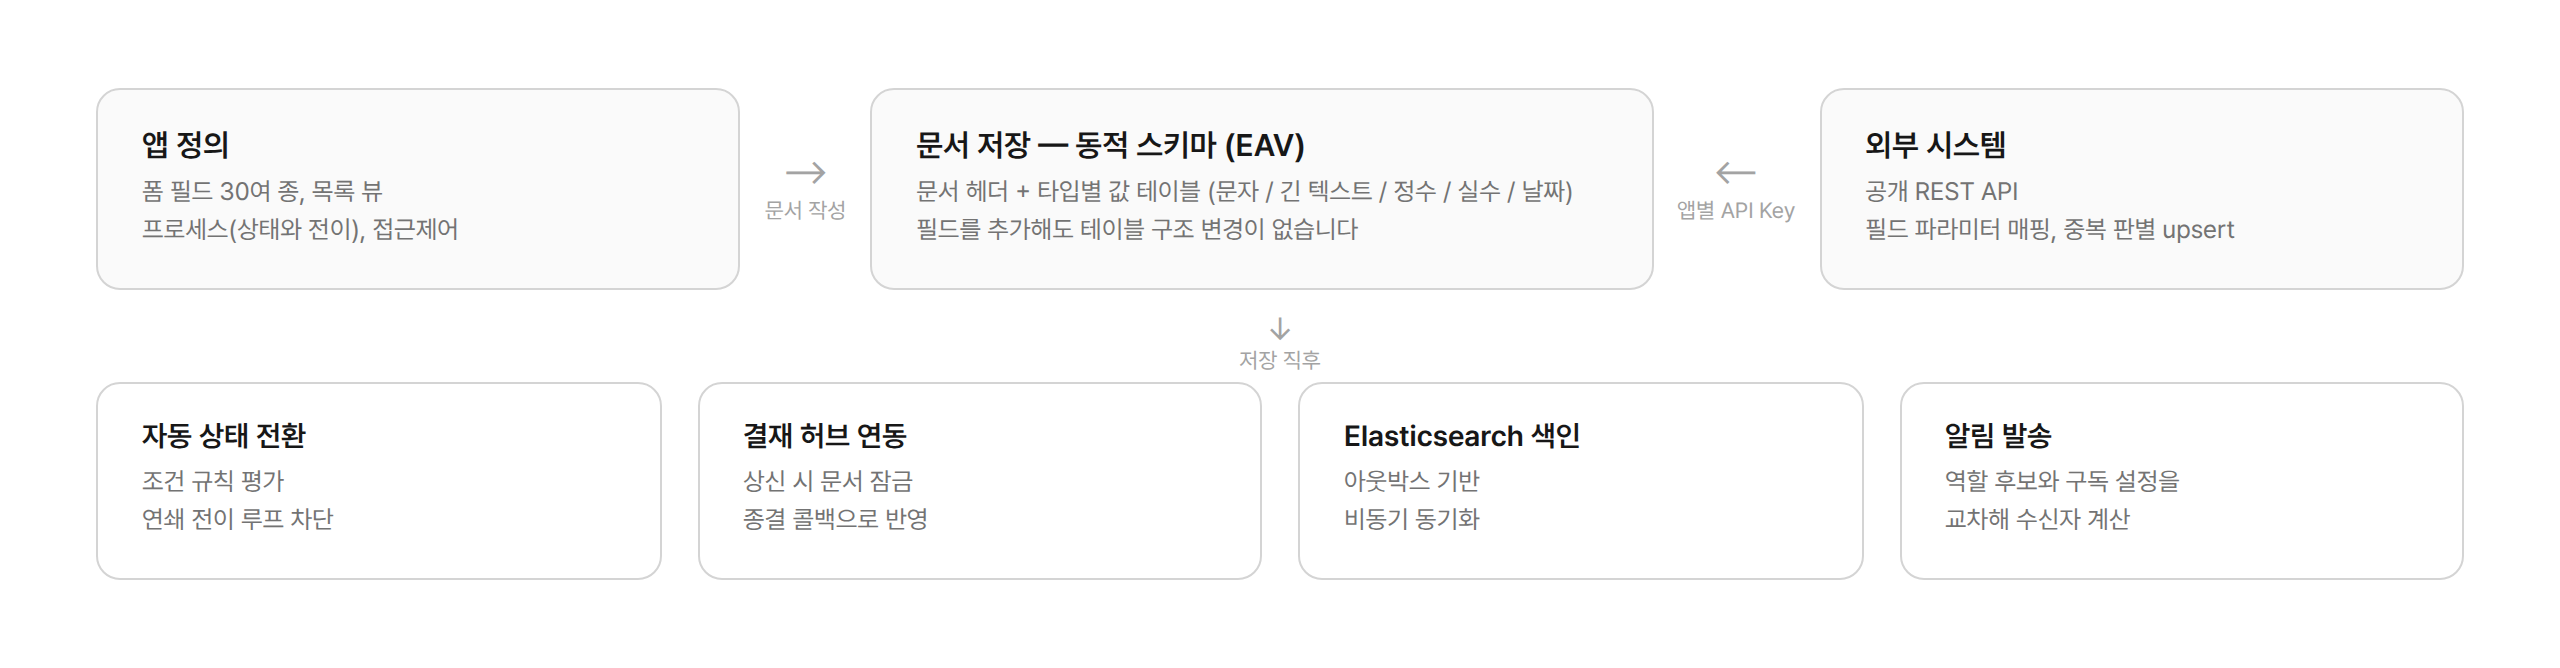
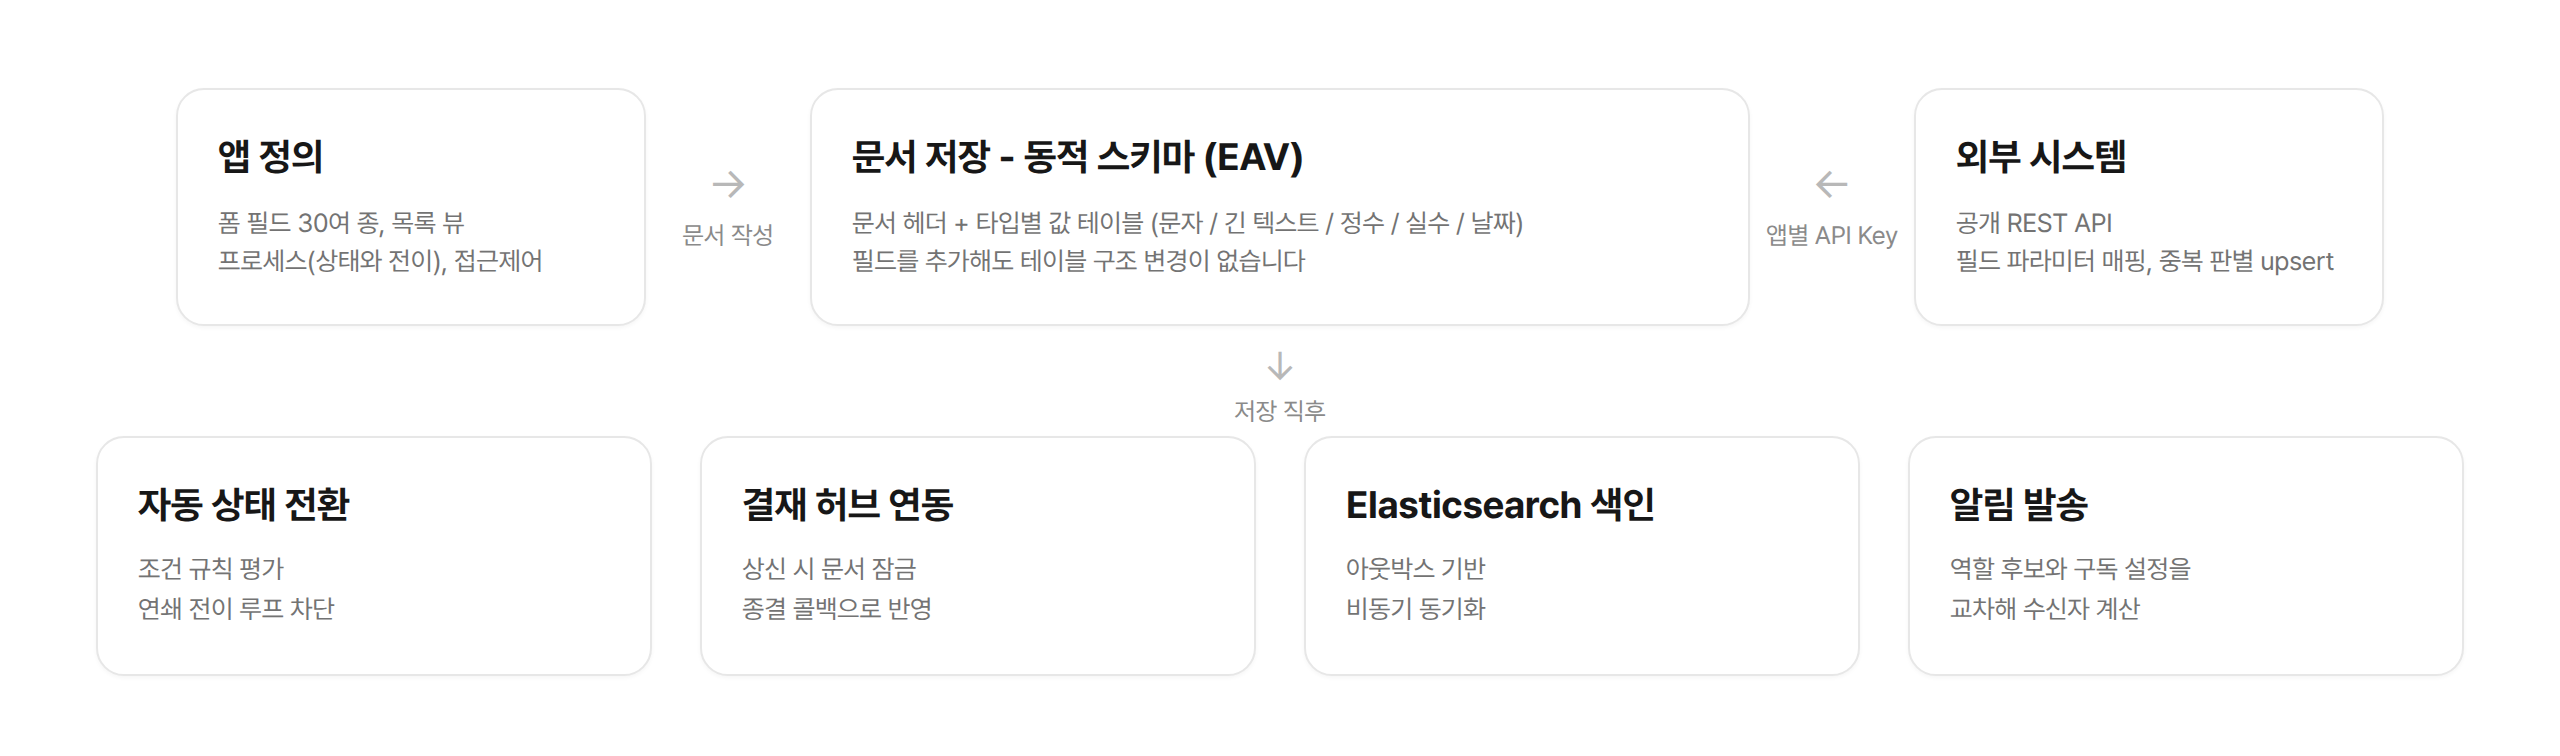
content: AI 플랫폼 다이어그램·발표 자료 추가, 특허·업무앱 화면 갱신
- ai-platform: 실제 LangGraph 에이전트 그래프, 사내 지식(RAG) 검색과
  문서 처리 파이프라인 흐름도 추가, ZEUS AI DAY 발표 슬라이드 수록,
  중복 워크플로우 이미지 정리와 서술 다듬기
- patent-management: 특허/직무발명 상세 화면 스크린샷 보강
- work-app-platform: 아키텍처 다이어그램 등 재캡처

diff --git a/src/content/builds.ts b/src/content/builds.ts
@@ -15,7 +15,7 @@ export const builds: Build[] = [
       { type: 'paragraph', text: '그룹웨어를 전환하면서 경비 처리 업무를 옮겨올 사내 시스템이 필요했습니다. 기존에는 RPA가 ERP 전표 입력을 대신하고 있었는데, 실행 환경을 많이 타는 데다 오류도 잦았습니다. 그래서 법인카드 사용내역 확인부터 계정 매핑, 전자결재 상신, ERP 회계전표 생성까지를 하나의 흐름으로 묶은 경비지출관리 시스템을 구축했습니다.' },
       { type: 'paragraph', text: '목표는 사용자가 카드 내역을 골라 용도만 입력하면 회계 전표는 시스템이 만들도록 하는 것이었습니다. 그러려면 사람이 하던 계정 분류와 ERP 전표 입력을 시스템이 대신할 수 있어야 했고, 이 두 가지가 프로젝트의 중심 과제가 됐습니다.' },
       { type: 'heading', text: '법인카드 경비 처리' },
-      { type: 'paragraph', text: 'ERP에 매일 적재되는 카드 사용내역을 실시간으로 연동해, 내 카드의 거래를 건별 처리 상태와 함께 확인하는 화면을 만들었습니다. 카드와 사원이 N:N으로 매핑되는 권한 구조를 그대로 반영했고, 암호화되어 있던 카드번호는 ERP 내장 함수를 찾아 복호화해 표시했습니다.' },
+      { type: 'paragraph', text: 'ERP에 매일 적재되는 카드 사용내역을 실시간으로 연동해, 내 카드의 거래를 건별 처리 상태와 함께 확인하는 화면을 만들었습니다. 카드와 사원이 N:N으로 매핑되는 권한 구조를 그대로 반영했습니다.' },
       { type: 'paragraph', text: '입력은 최대한 줄이는 방향으로 설계했습니다. 회계 계정과목을 직접 고르게 하면 비전공자에게는 어려운 선택이 되기 때문에, 경비 처리에 실제로 쓰이는 계정만 화이트리스트로 추리고 세목 선택지는 ERP 계정 정의에서 동적으로 파생되도록 했습니다. 연구 부서의 지출이 경상개발비 계정으로 치환되는 사내 회계 규칙, 전표 귀속 부서를 현재가 아닌 회계일 당시의 발령 이력으로 잡는 규칙 같은 도메인 지식도 로직에 담았습니다.' },
       { type: 'image', src: '/projects/expense-management/159.png', alt: '법인카드 처리 모달 - 계정과목과 부가세, 적요 입력', caption: '법인카드 처리 - 거래를 골라 계정과목과 부가세, 적요를 입력하고 결재상신으로 이어집니다' },
       { type: 'image', src: '/projects/expense-management/135.png', alt: '개인경비 등록 화면 - 계정과목 선택 후 전체 입력폼', caption: '개인경비 등록 - 계정과목을 고르면 세목과 거래처, 금액 입력란이 이어집니다' },
@@ -27,7 +27,7 @@ export const builds: Build[] = [
       { type: 'paragraph', text: 'ERP를 단일 진실 소스로 두고 시스템은 캐시처럼 동작하게 했습니다. ERP 쪽에서 전표가 삭제되거나 연결이 어긋나도 다음 저장 시점에 스스로 복구하고, 마감된 달에는 저장이 거부되고, 결재가 진행 중인 전표는 잠깁니다. 만드는 것보다 운영 중에 깨지지 않는 것에 비중을 둔 설계입니다.' },
       { type: 'heading', text: 'AI 영수증 자동입력' },
       { type: 'image', src: '/projects/expense-management/141.png', alt: 'AI 영수증 분석 화면 - 계정과목 후보와 근거, 적요 제안', caption: 'AI 추천 - 영수증을 분석해 계정과목 후보와 근거, 적요까지 제안 (샘플 영수증)' },
-      { type: 'paragraph', text: '영수증을 보고 계정과 용도를 고르는 일은 반복 작업이라 AI에게 맡기기 좋은 문제였습니다. 비전 모델이 영수증을 분석한 결과에, 과거 지출 이력 3.7만 건을 적재해 만든 이력 기반 추천을 우선순위로 병합하는 다단계 추천 구조로 만들었습니다. 부가세 공제 여부처럼 규칙화하기 어려운 항목은 2년치 카드 전표에서 계정별 처리 관행을 집계해 기본값을 정합니다.' },
+      { type: 'paragraph', text: '영수증을 보고 계정과 용도를 고르는 일은 번거로운 작업이라, AI가 대신 채워주면 실제로 잘 쓰이겠다는 생각에서 시작했습니다. 비전 모델이 영수증을 분석한 결과에, 과거 지출 이력 3.7만 건을 적재해 만든 이력 기반 추천을 우선순위로 병합하는 다단계 추천 구조로 만들었습니다. 부가세 공제 여부처럼 규칙화하기 어려운 항목은 2년치 카드 전표에서 계정별 처리 관행을 집계해 기본값을 정합니다.' },
       { type: 'paragraph', text: '입력 보조 기능은 느리면 쓰지 않게 되기 때문에, 영수증 이미지 리사이즈와 프롬프트 캐싱, 추론 옵션 조정으로 응답 지연을 줄였습니다. 영수증의 사업자번호가 ERP 거래처와 정확히 1건 매칭되면 거래처까지 자동으로 채워지고, 호출마다 토큰과 비용, 사용자가 최종 채택한 계정을 로그로 남겨 추천 품질을 추적합니다.' },
       { type: 'heading', text: '모바일' },
       { type: 'image', src: '/projects/expense-management/157.png', alt: '모바일 법인카드 내역 화면', caption: '모바일 법인카드 내역은 카드형 리스트로 보여줍니다.' },
@@ -131,7 +131,7 @@ export const builds: Build[] = [
       { type: 'image', src: '/projects/oneplace/136.png', alt: '홈 대시보드 화면', caption: '홈 대시보드' },
       { type: 'heading', text: '개요' },
       { type: 'paragraph', text: '흩어져 있는 사내 서비스의 입구를 하나로 모으는 통합 포털을 구축했습니다. 임직원이 하루를 시작하는 첫 화면을 목표로, 사용자별로 구성되는 개인 대시보드로 설계했습니다.' },
-      { type: 'paragraph', text: '같은 웹 한 벌로 PC, 모바일 브라우저, 스토어 설치형 앱까지 커버하는 것을 아키텍처 전략으로 잡았습니다.' },
+      { type: 'paragraph', text: '같은 웹 한 벌로 PC와 모바일 브라우저를 함께 커버하는 것을 아키텍처 전략으로 잡았습니다.' },
       { type: 'heading', text: '홈 대시보드' },
       { type: 'paragraph', text: '인사 배너, 즐겨찾기, 최근 사용 메뉴, 알림, 연차 현황, 오늘 근무시간 요약, 날씨까지, 임직원이 자주 확인하는 정보를 한 화면에 모았습니다. 다른 시스템에 들어가야 보이던 것들을 첫 화면으로 끌어온 것입니다.' },
       { type: 'heading', text: '전사 서비스 메뉴' },
@@ -159,7 +159,7 @@ export const builds: Build[] = [
     blocks: [
       { type: 'image', src: '/projects/bi/102.png', alt: '포털 홈 화면', caption: '포털 홈 화면' },
       { type: 'heading', text: '개요' },
-      { type: 'paragraph', text: '상용 BI 솔루션(BI Matrix AUD)에 준하는 풀 BI 플랫폼을 구현하고 있습니다. 차원과 측정값을 끌어다 리포트를 만드는 디자이너(저작), 만든 리포트를 조회하는 뷰어(런타임), 폴더, 권한, 검색을 갖춘 포털까지가 범위입니다. 유료 라이브러리 없이 OSS만으로 만들었고, 핵심인 OLAP 피벗 그리드도 구현했습니다.' },
+      { type: 'paragraph', text: '상용 BI 솔루션에 준하는 풀 BI 플랫폼을 구현하고 있습니다. 차원과 측정값을 끌어다 리포트를 만드는 디자이너(저작), 만든 리포트를 조회하는 뷰어(런타임), 폴더, 권한, 검색을 갖춘 포털까지가 범위입니다. 유료 라이브러리 없이 OSS만으로 만드는 것을 목표로 하고 있고, OLAP 피벗 그리드도 직접 구현하고 있습니다.' },
       { type: 'paragraph', text: '속도보다 견고함을 우선하는 것을 원칙으로 잡았습니다. 그리드와 디자이너처럼 복잡한 컴포넌트는 회귀가 생기기 쉬워서, 각 단계를 안정화한 뒤에만 다음 단계로 넘어갔고 백엔드와 프론트를 합쳐 660개가 넘는 테스트로 검증하며 진행했습니다.' },
       { type: 'heading', text: 'OLAP 피벗 그리드' },
       { type: 'image', src: '/projects/bi/104.png', alt: '피벗 그리드 리포트 화면', caption: '사업부 × 연도 피벗 리포트' },
@@ -198,22 +198,22 @@ export const builds: Build[] = [
       { type: 'image', src: '/projects/patent-management/108.png', alt: '전사 특허 통계 대시보드', caption: '전사 특허 통계 대시보드 - 연도별 출원과 등록 추이, 분야별 분포' },
       { type: 'heading', text: '개요' },
       { type: 'paragraph', text: '개발 초창기이던 2022년에 EJS와 저장 프로시저 기반으로 구축해 운영해온 전사 특허와 직무발명 관리 시스템을, Next.js 구조로 현대화하고 있습니다. 출원과 등록 특허 현황, 직무발명 접수, 연차료 관리, 통계 대시보드에 더해 공지와 Q&A 게시판, 열람 권한을 관리하는 관리자 콘솔까지 하나의 앱으로 제공합니다.' },
-      { type: 'paragraph', text: '2026년 들어 주요 화면을 App Router와 React Query, 별도 REST API 구조로 옮겼습니다. 기존 저장 프로시저와 데이터 계약은 그대로 유지한 채 레거시 EJS와 병존하며 메뉴 단위로 전환하는 방식이라, 운영 중인 시스템을 멈추지 않고 옮겨갑니다. 화면 이관에 그치지 않고 발명자 식별 체계를 사번 기준으로 정리하고 통계와 알림을 새로 설계하는 것까지를 현대화의 범위로 잡았습니다.' },
+      { type: 'paragraph', text: '2026년 들어 주요 화면을 App Router와 React Query, 별도 REST API 구조로 옮겼습니다. 기존 저장 프로시저와 데이터 계약은 그대로 두었습니다. 화면 이관에 그치지 않고 발명자 식별 체계를 사번 기준으로 정리하고 통계와 알림을 새로 설계하는 것까지를 현대화의 범위로 잡았습니다.' },
       { type: 'heading', text: '특허 현황 관리' },
       { type: 'image', src: '/projects/patent-management/109.png', alt: '특허 현황 목록 화면', caption: '특허 현황 목록 - 컬럼별 인라인 필터와 목록 다운로드' },
       { type: 'paragraph', text: '유효 특허와 만료 특허를 구분해 관리하고, 연차료(권리 유지비) 납부 기한을 알람일 기준으로 관리합니다. 기한을 놓치면 권리가 소멸되는 도메인이라, 데이터 정확성에 초점을 뒀습니다.' },
       { type: 'paragraph', text: '목록은 컬럼마다 인라인 필터를 두고, 자주 쓰는 검색 조건은 사용자별 프리셋으로 저장해 재사용합니다. 상세를 봤다가 목록으로 돌아오면 직전 목록 상태(필터·정렬)를 복원해 흐름이 끊기지 않게 했습니다. 현재 필터가 걸린 목록을 그대로 엑셀로 내려받을 수 있고, 발명자와 특허담당자는 조직도 프로필과 연결해 아바타로, 특허 등급(smart3)은 별도 컬럼으로 한 화면에서 확인합니다.' },
+      { type: 'image', src: '/projects/patent-management/172.png', alt: '특허 상세(VIEW) 화면', caption: '특허 상세 - 출원 정보와 발명자, 기여도를 한 화면에서 확인합니다.' },
       { type: 'paragraph', text: '등록과 수정 폼은 양수도 등록, 발명에서 특허로의 전환, 분할출원(관리번호 자동 생성)까지 한 화면에서 다룹니다. 발명자 인적사항(주민등록번호, 주소, 기여도)을 입력할 때는 조직도와 최근 입력값에서 영문명·한자명과 이전 값을 제안해, 반복 입력의 수고를 줄였습니다.' },
       { type: 'image', src: '/projects/patent-management/110.png', alt: '직무발명 접수 현황 화면', caption: '직무발명 접수 현황 - 접수 상태와 사업 분야별 진행' },
       { type: 'paragraph', text: '직무발명 접수부터 특허 연결까지 이어지는 흐름을 한 화면에서 다룹니다.' },
+      { type: 'image', src: '/projects/patent-management/173.png', alt: '직무발명 접수 상세(VIEW) 화면', caption: '직무발명 접수 상세 - 발명자와 기여도, 희망 출원 정보와 진행 상태를 한 화면에서 확인합니다.' },
       { type: 'heading', text: '통계 대시보드' },
       { type: 'paragraph', text: '요약 카드와 연도별 출원·등록 추이, 유효 특허의 분야별 분포, 발명자 순위, 등록 특허의 등급 분포를 한 화면에서 보여주고, 각 차트는 마우스를 올리면 세부 내역이 함께 뜹니다. 지재권 현황을 보고용 엑셀 없이 바로 확인하게 하는 것이 목적입니다.' },
       { type: 'heading', text: '게시판과 관리자 콘솔' },
       { type: 'image', src: '/projects/patent-management/168.png', alt: '관리자 콘솔 - 열람 권한 설정 화면', caption: '관리자 콘솔 - 화면별 열람 권한 설정' },
       { type: 'paragraph', text: '공지사항과 Q&A 게시판을 두어 특허 관련 공지와 문의를 앱 안에서 주고받고, 댓글과 첨부까지 지원합니다.' },
       { type: 'paragraph', text: '관리자 콘솔에서는 특허 현황, 직무발명, 게시판별로 열람할 사용자와 부서를 지정하고 등록·삭제 권한을 세분화합니다. 출원국, 출원인, 제품명, 특허법인 같은 코드 테이블도 화면에서 직접 관리해, 새 값이 생겨도 개발 없이 운영에서 추가합니다.' },
-      { type: 'heading', text: '알림 파이프라인' },
-      { type: 'paragraph', text: '알림은 이벤트 → 수신자 결정 → 템플릿 → 아웃박스로 단계를 분리한 파이프라인으로 새로 설계했습니다. 직무발명 접수와 댓글 이벤트에 먼저 적용했고, 메일과 사내 메신저 카드, 인앱 벨까지 멀티 채널로 발송됩니다. 수신 여부는 사용자의 알림 설정을 존중합니다.' },
     ],
   },
   {
@@ -228,13 +228,15 @@ export const builds: Build[] = [
       { type: 'image', src: '/projects/ai-platform/118.png', alt: '메인 화면', caption: '메인 화면' },
       { type: 'heading', text: '개요' },
       { type: 'paragraph', text: 'RAG(Retrieval-Augmented Generation) 기반 사내 챗봇으로 시작해, 지금은 웹 검색과 업무 데이터 조회, 코드 실행, 문서 생성까지 하나의 채팅에서 처리하는 사내 AI 플랫폼으로 발전시켰습니다.' },
-      { type: 'paragraph', text: '문서 등록이 관리자를 거치면 지식이 쌓이지 않는다고 봤습니다. 그래서 업로드하면 파싱부터 임베딩, 저장까지 자동으로 처리되는 데이터 파이프라인을 만들어, 관리자 개입 없이 사용자 주도로 지식이 쌓이는 구조를 우선했습니다.' },
-      { type: 'paragraph', text: '질문의 성격은 제각각인데 입구가 여러 개면 쓰이지 않습니다. RAG 검색, 자유 질의, 웹 검색, 업무 데이터 조회를 하나의 채팅 인터페이스에서 처리하는 멀티 응답 구조로 설계한 이유입니다.' },
+      { type: 'paragraph', text: '문서를 올리면 파싱부터 임베딩, 저장까지 자동으로 처리되도록 데이터 파이프라인을 두었습니다. 사용자가 자료를 다시 정리하거나 새로 만들지 않고 있는 그대로 올려도, 파싱 단계에서 최대한 잘 처리해 그대로 지식으로 쌓이게 하고 싶었습니다.' },
+      { type: 'image', src: '/projects/ai-platform/175.png', alt: '문서 처리 파이프라인 다이어그램', caption: '올린 문서가 지식이 되기까지 - 파싱하고 청킹해 임베딩한 뒤 벡터 DB에 저장하며, 전 과정이 백그라운드로 돌아갑니다.' },
+      { type: 'paragraph', text: 'RAG 검색, 자유 질의, 웹 검색, 업무 데이터 조회를 종류별로 화면을 나누지 않고 하나의 채팅에서 모두 처리하도록 했습니다.' },
       { type: 'paragraph', text: '응답은 SSE 스트리밍에 Redis Stream 기반 재개 구조를 더해, 새로고침하거나 네트워크가 끊겨도 진행 중인 응답을 이어볼 수 있습니다. 반응형 UI라 모바일에서도 기능 제약 없이 쓸 수 있습니다.' },
       { type: 'heading', text: '아키텍처' },
       { type: 'image', src: '/projects/ai-platform/159.png', alt: 'AI 플랫폼 아키텍처 다이어그램', caption: '프론트엔드, BFF, AI 서버의 세 영역으로 나뉘고, 문서 생성과 코드 실행은 별도 샌드박스 컨테이너에서 격리 실행됩니다.' },
-      { type: 'paragraph', text: 'Next.js 프론트엔드, Express BFF, Python/FastAPI AI 서버의 세 영역으로 분리해 각각 독립 서비스로 운영합니다. AI 서버는 LangGraph 워크플로우와 임베딩 파이프라인, LLM 호출을 책임지고, 문서 생성과 코드 실행은 다시 별도의 격리 샌드박스 컨테이너에서 코드로 실행됩니다. AI 파이프라인을 사내 인프라 의존성에서 격리해두면 모델이나 프레임워크를 바꾸는 실험이 다른 영역에 영향을 주지 않기 때문입니다.' },
-      { type: 'paragraph', text: '프론트엔드는 FSD(Feature-Sliced Design)로 features, entities, views, shared 계층을 나눴습니다. 임시 채팅, 모델 한도처럼 나중에 추가된 기능들이 기존 흐름을 건드리지 않고 얹힐 수 있었던 것은 이 구조의 덕이 컸습니다.' },
+      { type: 'paragraph', text: 'Next.js 프론트엔드, Express BFF, Python/FastAPI AI 서버의 세 영역으로 분리해 각각 독립 서비스로 운영합니다. AI 서버는 LangGraph 워크플로우와 임베딩 파이프라인, LLM 호출을 책임지고, 문서 생성과 코드 실행은 다시 별도의 격리 샌드박스 컨테이너에서 코드로 실행됩니다.' },
+      { type: 'paragraph', text: 'AI 서버 안에서 요청은 LangGraph 기반 에이전트 그래프로 처리됩니다. 진입 라우팅으로 경로를 정한 뒤 MainAgent가 도구를 반복해 호출하고, 지식 단독 질문과 웹페이지 생성은 전용 에이전트가 맡습니다.' },
+      { type: 'image', src: '/projects/ai-platform/177.png', alt: 'AI 플랫폼 LangGraph 에이전트 그래프 다이어그램', caption: '실제 에이전트 그래프 - 분류 노드를 걷어낸 단일 ReAct 구조입니다. 진입 경로만 결정론으로 정하고, 이후 도구 선택은 에이전트가 판단합니다.' },
       { type: 'heading', text: '질의응답 인터페이스' },
       { type: 'subheading', text: '일반 질의' },
       { type: 'image', src: '/projects/ai-platform/119.png', alt: '일반 질의 화면', caption: '일반 질의 (텍스트와 이미지)' },
@@ -248,9 +250,8 @@ export const builds: Build[] = [
       { type: 'subheading', text: '사내 지식(RAG) 기반 검색' },
       { type: 'image', src: '/projects/ai-platform/123.png', alt: '사내 지식 검색 화면', caption: '사내 지식 검색은 어떤 문서에서 나온 답인지 출처를 보여줍니다.' },
       { type: 'image', src: '/projects/ai-platform/124.png', alt: '모델 선택 화면', caption: '모델 선택' },
-      { type: 'paragraph', text: '사용자가 모드를 고르지 않아도 질문 성격에 맞는 경로로 흐르게 하는 것이 목표입니다. 처음에는 Supervisor 노드가 질문을 분류해 경로를 정했지만, 분류 노드를 걷어내고 에이전트가 스스로 도구를 고르는 단일 ReAct 구조로 옮겼습니다. 지금은 진입 경로만 결정론적으로 정하고(사내 지식과 프로젝트 파일은 미리 불러오도록), 그 뒤 RAG, 웹 검색, 코드 실행 같은 도구 선택은 에이전트가 판단합니다.' },
-      { type: 'image', src: '/projects/ai-platform/166.png', alt: '질의 처리 워크플로우 다이어그램', caption: '질문이 답변이 되기까지 - 경로 결정, 도구 실행, 과정 표시, 답변으로 이어집니다.' },
-      { type: 'paragraph', text: '사내 지식 검색은 한 번 찾고 끝내지 않습니다. 검색 계획 → 실행 → 평가로 이어지는 흐름에서 평가(critic) 노드가 결과의 충분성을 판단하고, 부족하면 범위를 넓혀 한 차례 보강 검색을 합니다.' },
+      { type: 'paragraph', text: '사용자가 모드를 고르지 않아도 질문 성격에 맞는 경로로 흐르게 하는 것이 목표입니다. 처음에는 Supervisor 노드가 질문을 분류해 경로를 정했지만, 분류 노드를 걷어내고 에이전트가 스스로 도구를 고르는 단일 ReAct 구조로 옮겼습니다. 지금은 진입 경로만 결정론적으로 정하고(사내 지식과 프로젝트 파일은 미리 불러오도록), 그 뒤 RAG, 웹 검색, 코드 실행 같은 도구 선택은 에이전트가 판단합니다.' },      { type: 'paragraph', text: '사내 지식 검색은 한 번 찾고 끝내지 않습니다. 검색 계획 → 실행 → 평가로 이어지는 흐름에서 평가(critic) 노드가 결과의 충분성을 판단하고, 부족하면 범위를 넓혀 한 차례 보강 검색을 합니다.' },
+      { type: 'image', src: '/projects/ai-platform/170.png', alt: '사내 지식(RAG) 검색 워크플로우 다이어그램', caption: '사내 지식 검색이 근거가 되기까지 - 계획하고 찾은 뒤, 충분하지 않으면 범위를 넓혀 한 차례 더 찾습니다.' },
       { type: 'paragraph', text: '첨부 파일은 종류에 따라 처리 경로가 다릅니다. 이미지와 PDF 페이지는 비전 모델이 읽고, csv, xlsx 같은 표 데이터는 LLM이 눈으로 읽다 틀리지 않도록 코드 실행 경로로 라우팅합니다.' },
       { type: 'paragraph', text: 'AI가 왜 이런 답을 내놨는지 보이지 않으면 신뢰가 쌓이지 않습니다. 에이전트가 어떤 도구를 어떤 순서로 썼는지 접었다 펼 수 있는 단계별 타임라인으로 보여주고(웹 검색, 사내 지식 검색, 분석·계산 등), 각 단계에 참고한 출처를 함께 답니다. 답변에는 인용 번호와 출처를 표시합니다.' },
       { type: 'heading', text: '자연어 업무 데이터 조회' },
@@ -280,6 +281,7 @@ export const builds: Build[] = [
       { type: 'image', src: '/projects/ai-platform/163.png', alt: '코드 인터프리터 차트 생성 화면', caption: '계산이나 시각화 요청은 코드를 작성해 실행하고, 결과를 인터랙티브 차트로 보여줍니다.' },
       { type: 'paragraph', text: '데이터 분석이나 차트 생성처럼 계산이 필요한 요청은 LLM이 직접 답하지 않고 Python 코드를 작성해 실행합니다. 실행 환경은 네트워크 차단, 읽기 전용 파일시스템, 리소스 제한을 건 격리 샌드박스를 별도 서비스로 두었고, 격리 항목을 자동 검증하는 스크립트를 배포 조건으로 삼았습니다.' },
       { type: 'paragraph', text: '결과 표와 차트는 브라우저에서 다시 그리는 인터랙티브 위젯으로 내려, 차트 종류를 바꾸거나 표로 전환할 수 있습니다.' },
+      { type: 'image', src: '/projects/ai-platform/171.png', alt: '코드 인터프리터 표 전환 화면', caption: '같은 결과를 표로 전환한 화면 - 위젯의 차트 옵션에서 차트 종류를 바꾸거나 표로 볼 수 있습니다.' },
       { type: 'heading', text: '임시 채팅' },
       { type: 'image', src: '/projects/ai-platform/129.png', alt: '임시 채팅 화면', caption: '임시 채팅의 대화는 서버에 저장되지 않습니다.' },
       { type: 'paragraph', text: '사내 AI라도 사적이거나 민감한 질문을 할 수 있어야 실제로 쓰인다고 판단해 임시 채팅을 만들었습니다. 대화 본문은 서버에 저장하지 않고 브라우저 상태에만 두어, 새로고침이나 탭 종료와 함께 사라집니다.' },
@@ -297,6 +299,11 @@ export const builds: Build[] = [
       { type: 'image', src: '/projects/ai-platform/24.png', alt: '피드백 전송 화면', caption: '피드백 전송 화면' },
       { type: 'image', src: '/projects/ai-platform/132.png', alt: '피드백 관리 화면', caption: '피드백 관리 화면' },
       { type: 'paragraph', text: 'AI 응답에 대한 사용자 피드백을 수집하고 관리자 페이지에서 확인합니다. 답변 품질을 개선할 지점을 찾는 채널입니다.' },
+      { type: 'heading', text: '사내 발표' },
+      { type: 'image', src: '/projects/ai-platform/174.png', alt: 'ZEUS AI DAY 발표 표지 - RAG 기술을 활용한 챗봇 소개', caption: '2026년 1월 사내 ZEUS AI DAY 발표 - RAG 기술을 활용한 챗봇 소개' },
+      { type: 'paragraph', text: 'RAG 기반 사내 챗봇을 처음 구현한 뒤, 사내 개발자와 임직원을 대상으로 열린 ZEUS AI DAY에서 개발 경험을 발표했습니다. LLM과 RAG가 무엇인지부터, 사내에 도입하며 고민한 지점과 실제 서비스에 적용한 구조까지 정리해 공유했습니다.' },
+      { type: 'image', src: '/projects/ai-platform/172.png', alt: 'RAG 동작 흐름 다이어그램 슬라이드', caption: 'RAG 동작 흐름 - 질문을 임베딩해 벡터 DB에서 유사 문서를 찾고, 그 근거로 답을 만듭니다.' },
+      { type: 'image', src: '/projects/ai-platform/173.png', alt: 'RAG 서비스 구현 시 고려사항 슬라이드', caption: '구현하며 고른 스택 - 오케스트레이션(LangChain, LangGraph), 파싱과 임베딩, 벡터 DB(Qdrant), 화면(Next.js)' },
     ],
   },
   {

diff --git a/src/content/imageDims.ts b/src/content/imageDims.ts
@@ -21,13 +21,19 @@ export const imageDims: Record<string, { w: number; h: number }> = {
   '/projects/ai-platform/131.png': { w: 2880, h: 1800 },
   '/projects/ai-platform/132.png': { w: 2880, h: 1800 },
   '/projects/ai-platform/133.png': { w: 2880, h: 1800 },
-  '/projects/ai-platform/159.png': { w: 2560, h: 720 },
+  '/projects/ai-platform/159.png': { w: 2560, h: 728 },
   '/projects/ai-platform/16.png': { w: 1091, h: 866 },
   '/projects/ai-platform/163.png': { w: 1980, h: 1240 },
-  '/projects/ai-platform/166.png': { w: 2560, h: 564 },
   '/projects/ai-platform/167.png': { w: 2850, h: 2048 },
   '/projects/ai-platform/169.png': { w: 2560, h: 729 },
   '/projects/ai-platform/17.png': { w: 1100, h: 744 },
+  '/projects/ai-platform/170.png': { w: 2560, h: 764 },
+  '/projects/ai-platform/171.png': { w: 1860, h: 1056 },
+  '/projects/ai-platform/172.png': { w: 2520, h: 1417 },
+  '/projects/ai-platform/173.png': { w: 2520, h: 1417 },
+  '/projects/ai-platform/174.png': { w: 2520, h: 1417 },
+  '/projects/ai-platform/175.png': { w: 2560, h: 700 },
+  '/projects/ai-platform/177.png': { w: 2500, h: 1903 },
   '/projects/ai-platform/24.png': { w: 494, h: 806 },
   '/projects/attendance/115.png': { w: 1600, h: 900 },
   '/projects/attendance/43.png': { w: 1895, h: 943 },
@@ -85,6 +91,8 @@ export const imageDims: Record<string, { w: number; h: number }> = {
   '/projects/patent-management/109.png': { w: 2520, h: 1500 },
   '/projects/patent-management/110.png': { w: 2520, h: 1500 },
   '/projects/patent-management/168.png': { w: 2520, h: 1500 },
+  '/projects/patent-management/172.png': { w: 2520, h: 1500 },
+  '/projects/patent-management/173.png': { w: 2520, h: 1500 },
   '/projects/pms/138.png': { w: 2880, h: 1800 },
   '/projects/pms/139.png': { w: 2880, h: 1800 },
   '/projects/pms/140.png': { w: 2880, h: 1800 },
@@ -126,7 +134,7 @@ export const imageDims: Record<string, { w: number; h: number }> = {
   '/projects/work-app-platform/154.png': { w: 2880, h: 1800 },
   '/projects/work-app-platform/155.png': { w: 2880, h: 1800 },
   '/projects/work-app-platform/156.png': { w: 2880, h: 1800 },
-  '/projects/work-app-platform/161.png': { w: 2560, h: 668 },
+  '/projects/work-app-platform/161.png': { w: 2560, h: 756 },
   '/projects/work-app-platform/162.png': { w: 1170, h: 2532 },
   '/projects/work-app-platform/163.png': { w: 2340, h: 1350 },
   '/projects/work-app-platform/164.png': { w: 1170, h: 2532 },